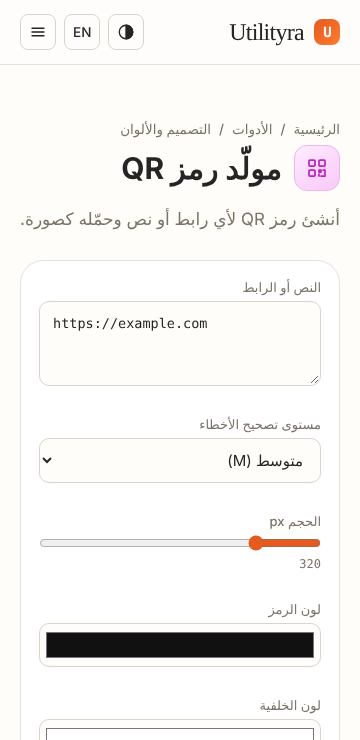
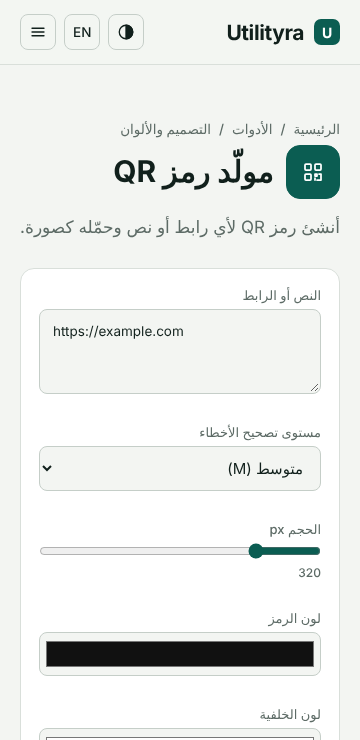
Redesign v4 (workbench look); fix Anthropic 400 (no temperature, valid role order) (#19)
Claude-Session: https://claude.ai/code/session_01XFyGnZQLbsRMmR5Q2gq1Am

diff --git a/src/assets/css/app.css b/src/assets/css/app.css
@@ -307,3 +307,69 @@ html[lang="ar"] .copy, html[lang="ar"] .copy * { font-family: var(--sans); }
 .chip { transition: transform .2s var(--ease), background .2s, border-color .2s, color .2s; } .chip:hover { transform: translateY(-1px); }
 :focus-visible { outline: 2px solid var(--accent); outline-offset: 3px; border-radius: 6px; }
 @media (prefers-reduced-motion: reduce) { .tcard:hover, .ccat:hover, .tcard:hover .g, .ccat:hover .g, .tcard:hover .g .ic, .ccat:hover .g .ic, .btn:hover, .chip:hover { transform: none; } }
+
+/* =====================================================================
+   Redesign v4 — "workbench": mineral ground, deep-teal primary, amber signal.
+   One family for UI, ruled catalogue rows instead of boxed tiles, motion only
+   where the user acts. Appended last so it supersedes earlier rules.
+   ===================================================================== */
+:root {
+  --bg: #F3F5F2; --paper: #EAEEEA; --card: #FFFFFF; --ink: #11201C; --muted: #5D6B66; --line: #D9DFDA; --line2: #C5CEC8;
+  --accent: #0B5D52; --accent2: #12806F; --signal: #F4C430; --sand: #E7EDE8; --ok: #1d7a46; --err: #b3342a;
+  --serif: 'IBM Plex Sans Arabic', 'Inter', system-ui, sans-serif; --mono: 'Inter', 'IBM Plex Sans Arabic', system-ui, sans-serif;
+  --r: 8px; --rc: 12px; --rw: 16px;
+}
+:root[data-theme="dark"] { --bg: #0C1512; --paper: #131E1A; --card: #101A17; --ink: #E8EFEA; --muted: #93A39B; --line: #22302B; --line2: #30413A; --accent: #3FBFA9; --accent2: #5ED2BD; --sand: #1B2823; }
+@media (prefers-color-scheme: dark) { :root:not([data-theme="light"]) { --bg: #0C1512; --paper: #131E1A; --card: #101A17; --ink: #E8EFEA; --muted: #93A39B; --line: #22302B; --line2: #30413A; --accent: #3FBFA9; --accent2: #5ED2BD; --sand: #1B2823; } }
+body { background: var(--bg); }
+h1, h2, h3, h4, html[lang="ar"] h1, html[lang="ar"] h2, html[lang="ar"] h3, html[lang="ar"] h4 { font-family: var(--sans); font-weight: 700; letter-spacing: -.02em; line-height: 1.25; }
+html[lang="ar"] h1, html[lang="ar"] h2, html[lang="ar"] h3 { letter-spacing: 0; }
+.logo, html[lang="ar"] .logo { font: 700 21px var(--sans); letter-spacing: -.02em; }
+.logo i { background: var(--accent); border-radius: 7px; font: 700 14px var(--sans); }
+/* labels: sentence case, plain */
+.label, .mono:not(input):not(textarea), .nav a, .hbtn, .btn, .chip, .crumbs, .ccat .n, .hero .eyebrow, .aw-ai .t, .chint, .ftr h4, .fld > label, .sec-h .label { font-family: var(--sans); text-transform: none; letter-spacing: 0; }
+.sec-h .label { display: inline-block; font-size: 13px; font-weight: 600; color: var(--accent); margin-bottom: 8px; }
+.fld > label { font-size: 13.5px; font-weight: 500; }
+.nav a { font-size: 14px; font-weight: 500; } .btn { font-size: 14px; font-weight: 600; min-height: 42px; border-radius: 8px; }
+.btn.solid, .btn.primary { background: var(--accent); border-color: var(--accent); color: #fff; }
+.btn.solid:hover, .btn.primary:hover { background: var(--accent2); box-shadow: none; }
+.btn:hover { transform: none; }
+/* hero: deep teal field with a fine instrument grid */
+.sky { filter: none; inset: 0; background: radial-gradient(60% 55% at 50% 0%, #17766a 0%, rgba(23, 118, 106, 0) 70%), linear-gradient(180deg, #082A25 0%, #0B3B34 55%, #0F4A41 100%); animation: none; }
+.sky::after { content: ''; position: absolute; inset: 0; background-image: linear-gradient(rgba(255, 255, 255, .05) 1px, transparent 1px), linear-gradient(90deg, rgba(255, 255, 255, .05) 1px, transparent 1px); background-size: 48px 48px; mask-image: radial-gradient(70% 70% at 50% 35%, #000, transparent); }
+.grain { opacity: .08; }
+.hero .eyebrow { color: rgba(255, 255, 255, .8); font-size: 14px; font-weight: 500; } .hero .eyebrow::before { background: var(--signal); border-radius: 50%; }
+.hero h1 { font-weight: 800; letter-spacing: -.03em; }
+html[lang="ar"] .hero h1 { letter-spacing: 0; line-height: 1.3; }
+.hero-search input { border-radius: 12px; border: 2px solid transparent; background: #fff; height: 58px; transition: border-color .2s, box-shadow .2s; } .hero-search input:focus { outline: none; border-color: var(--signal); box-shadow: 0 0 0 4px rgba(244, 196, 48, .25); }
+.hero-search kbd { font-family: var(--sans); }
+.btn.glass { background: rgba(255, 255, 255, .1); border-color: rgba(255, 255, 255, .35); color: #fff; }
+/* catalogue rows replace boxed tiles */
+.tgrid { display: grid; grid-template-columns: repeat(auto-fill, minmax(340px, 1fr)); gap: 0 32px; border-top: 1px solid var(--line2); }
+.tcard { position: relative; display: flex; align-items: flex-start; gap: 16px; padding: 18px 12px; min-height: 0; background: transparent; border: 0; border-bottom: 1px solid var(--line); border-radius: 0; box-shadow: none; transform: none; transition: background .2s; }
+.tcard:hover, .tcard:focus-visible { background: color-mix(in srgb, var(--accent) 6%, transparent); transform: none; box-shadow: none; border-color: var(--line); }
+.tcard::before { content: ''; position: absolute; inset-block: -1px; inset-inline-start: 0; width: 3px; background: var(--accent); transform: scaleY(0); transition: transform .25s ease; } .tcard:hover::before, .tcard:focus-visible::before { transform: scaleY(1); }
+.tcard .g, .ccat .g, .g.big, .tcard:hover .g, .ccat:hover .g { width: 40px; height: 40px; border-radius: 10px; background: transparent; border: 1.5px solid var(--line2); color: var(--accent); box-shadow: none; transform: none; transition: border-color .2s, background .2s, color .2s; }
+.tcard:hover .g, .ccat:hover .g { border-color: var(--accent); background: var(--accent); color: #fff; }
+.tcard:hover .g .ic, .ccat:hover .g .ic { transform: none; }
+:root[data-theme="dark"] .tcard .g, :root[data-theme="dark"] .ccat .g { background: transparent; border-color: var(--line2); color: var(--accent); box-shadow: none; }
+:root[data-theme="dark"] .tcard:hover .g, :root[data-theme="dark"] .ccat:hover .g { background: var(--accent); color: #0C1512; }
+.g.big { width: 54px; height: 54px; border-radius: 14px; } .ttl .g.big { background: var(--accent); color: #fff; border-color: var(--accent); }
+.tcard h3 { font: 600 16px var(--sans); } .tcard p { font-size: 14px; color: var(--muted); }
+.ai, .tcard .ai { background: var(--signal); color: #3b2f00; font: 700 10px var(--sans); border-radius: 4px; letter-spacing: .02em; }
+/* categories: ruled columns */
+.cgrid { display: grid; grid-template-columns: repeat(auto-fill, minmax(280px, 1fr)); gap: 0; border-top: 2px solid var(--ink); }
+.ccat { padding: 22px 20px 22px 0; padding-inline: 0 24px; background: transparent; border: 0; border-bottom: 1px solid var(--line); border-radius: 0; box-shadow: none; transform: none; }
+.ccat:hover { transform: none; box-shadow: none; background: transparent; border-color: var(--line); } .ccat:hover h3 { color: var(--accent); }
+.ccat h3 { font-size: 19px; } .ccat .n { font-size: 13px; font-weight: 600; color: var(--accent); }
+/* panels, chips, header */
+.panel { border-radius: 14px; box-shadow: none; } .chip { border-radius: 999px; font-size: 13.5px; } .chip.on { background: var(--accent); border-color: var(--accent); color: #fff; }
+.hdr { background: color-mix(in srgb, var(--bg) 92%, transparent); } .home .hdr:not(.stuck) .logo { color: #fff; }
+.ftr { background: var(--paper); }
+/* motion: only in response to action; no scroll-reveal sliding */
+.reveal { opacity: 1; transform: none; transition: none; }
+.tgrid > .tcard.reveal, .cgrid > .ccat.reveal { transition: background .2s; }
+@media (max-width: 720px) { .tgrid { grid-template-columns: 1fr; } .cgrid { grid-template-columns: 1fr; } }
+.hero h1, html[lang="ar"] .hero h1 { font-size: clamp(32px, 4.8vw, 54px); max-width: 17em; margin-inline: auto; text-wrap: balance; }
+.hero .btn.solid { background: var(--signal); border-color: var(--signal); color: #2a2100; } .hero .btn.solid:hover { background: #ffd24f; }
+.av, .av.b { background: var(--accent); color: #fff; } .av.b { background: #12806F; }

diff --git a/worker/src/index.js b/worker/src/index.js
@@ -160,18 +160,25 @@ export const anthropicChain = (env, strong) => (strong
 async function viaAnthropic(messages, env, gen = DEFAULT_GEN) {
   if (!env.ANTHROPIC_API_KEY) throw Object.assign(new Error("PROVIDER_NOT_CONFIGURED"), { status: 503 });
   const system = messages.find((m) => m.role === "system")?.content || "";
-  const msgs = messages.filter((m) => m.role !== "system").map((m) => ({ role: m.role, content: m.content }));
+  // Anthropic requires: first turn is "user", roles alternate, no empty content. Normalise history accordingly.
+  const msgs = [];
+  for (const m of messages.filter((x) => x.role !== "system")) {
+    const content = String(m.content || "").trim(); if (!content) continue;
+    const role = m.role === "assistant" ? "assistant" : "user";
+    if (msgs.length && msgs[msgs.length - 1].role === role) msgs[msgs.length - 1].content += "\n\n" + content; else msgs.push({ role, content });
+  }
+  while (msgs.length && msgs[0].role !== "user") msgs.shift();
   const base = env.AI_GATEWAY_URL ? `${String(env.AI_GATEWAY_URL).replace(/\/$/, "")}/anthropic` : "https://api.anthropic.com";
   let last;
   for (const model of anthropicChain(env, gen.strong)) {
-    const res = await fetch(base + "/v1/messages", { method: "POST", headers: { "x-api-key": env.ANTHROPIC_API_KEY, "anthropic-version": "2023-06-01", "content-type": "application/json", ...gwAuth(env) }, body: JSON.stringify({ model, max_tokens: gen.max_tokens, temperature: gen.temperature, system, messages: msgs }) });
+    const res = await fetch(base + "/v1/messages", { method: "POST", headers: { "x-api-key": env.ANTHROPIC_API_KEY, "anthropic-version": "2023-06-01", "content-type": "application/json", ...gwAuth(env) }, body: JSON.stringify({ model, max_tokens: gen.max_tokens, system, messages: msgs }) });
     const data = await res.json().catch(() => ({}));
     if (res.ok) {
       const text = (data?.content || []).map((c) => c.text || "").join("").trim();
       if (text) return text;
       last = Object.assign(new Error("EMPTY_PROVIDER_RESPONSE"), { status: 502 }); continue;
     }
-    last = Object.assign(new Error("UPSTREAM_ERROR"), { status: res.status === 429 ? 429 : 502, detail: `anthropic ${model} ${res.status} ${data?.error?.type || ""}`.trim() });
+    last = Object.assign(new Error("UPSTREAM_ERROR"), { status: res.status === 429 ? 429 : 502, detail: `anthropic ${model} ${res.status} ${data?.error?.type || ""} ${String(data?.error?.message || "").slice(0, 140)}`.trim() });
     if (res.status === 429 || res.status === 401 || res.status === 403) break; // quota / key problems: stepping down will not help
     // 400/404 (model not available for this account) and 5xx: try the next model in the chain
   }

diff --git a/docs/test-logs/e2e-latest.md b/docs/test-logs/e2e-latest.md
@@ -1,6 +1,6 @@
 # E2E test log
 
-Generated: 2026-10-24T23:45:55.284Z
+Generated: 2026-10-25T00:01:37.715Z
 
 **295/295 passed**, 0 failed.
 
